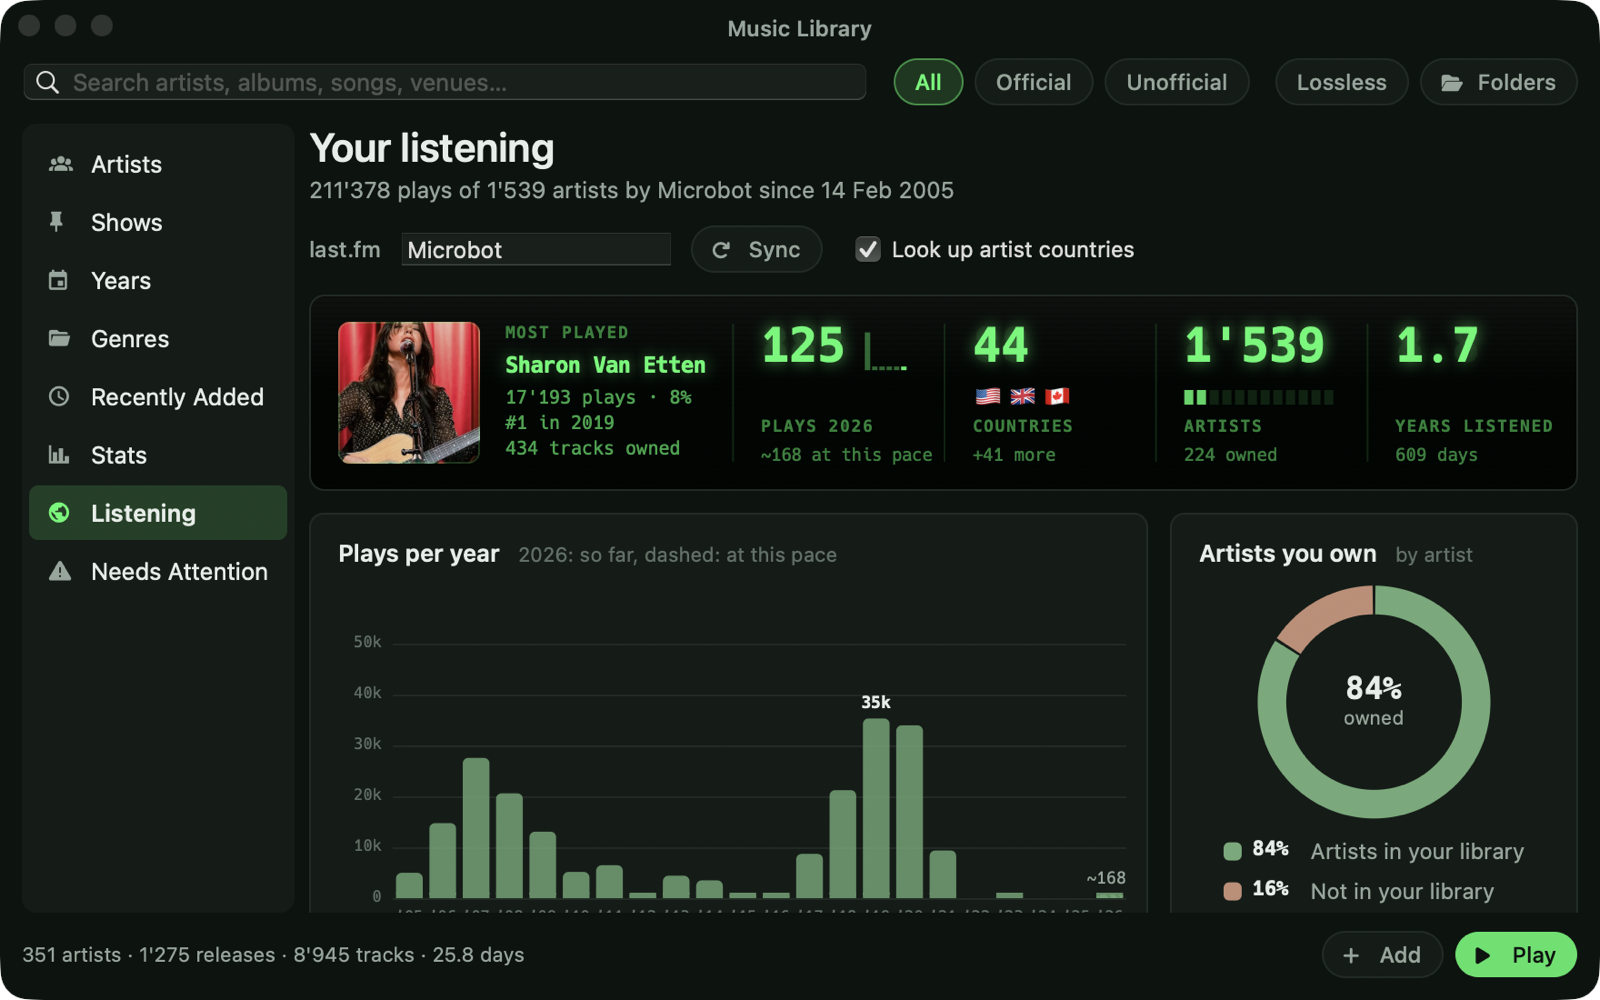
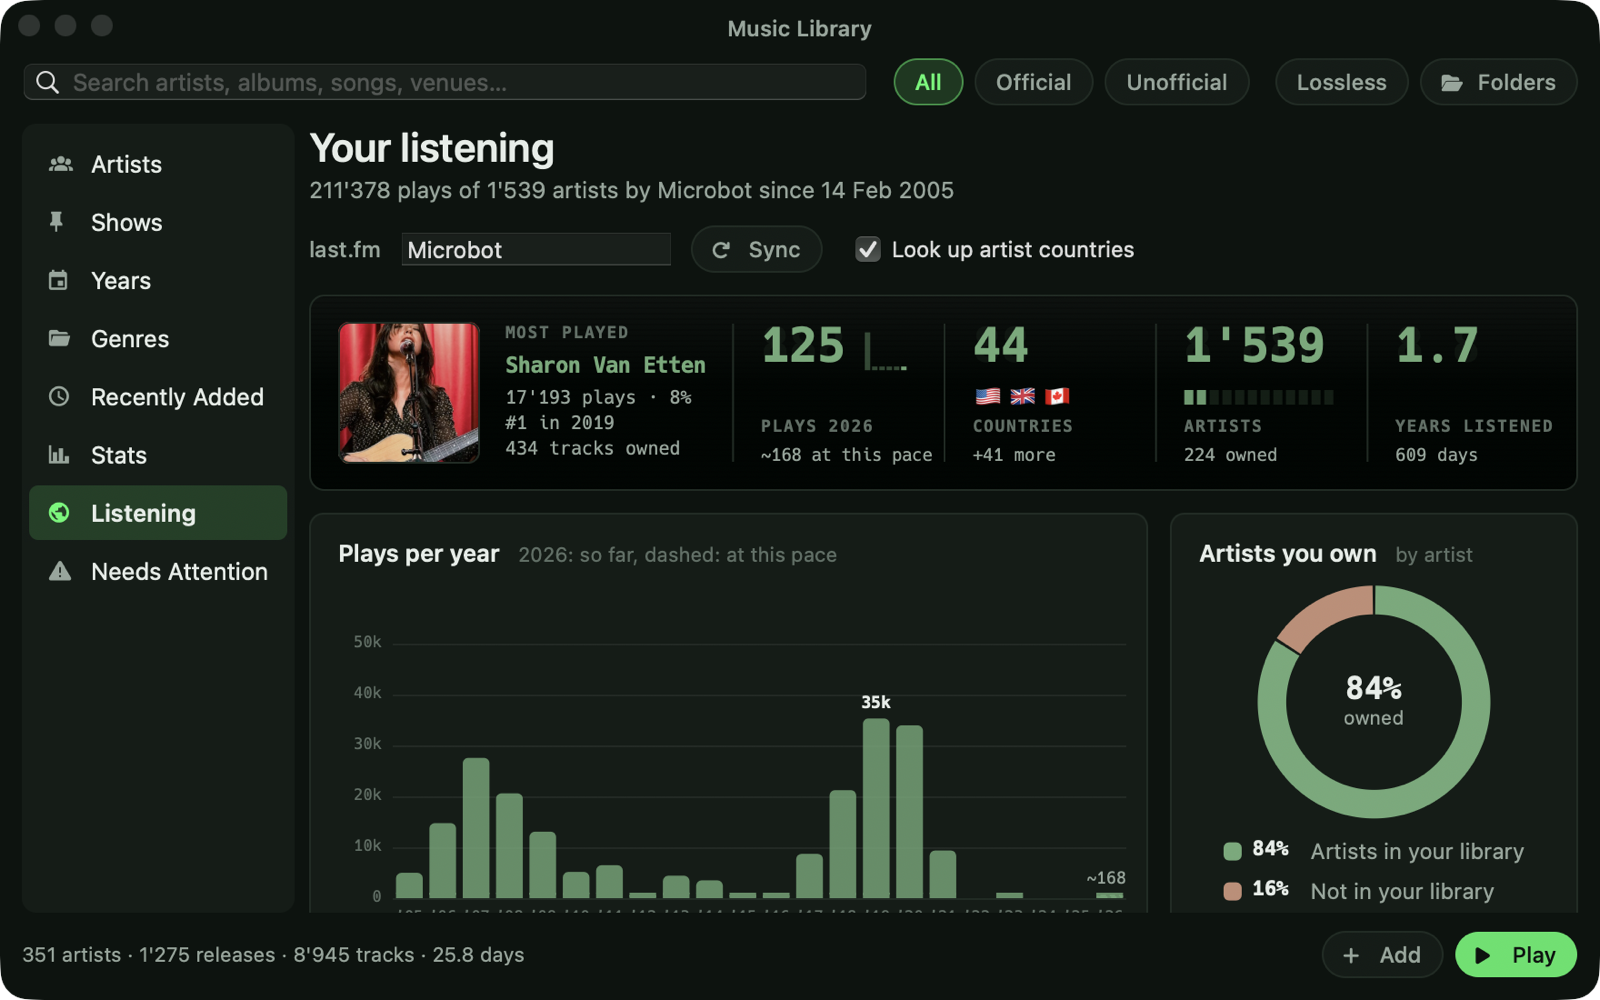
Stats and listening displays: figures, meters and bars in the chart palette's color, flat like the charts (the Phosphor palette keeps the glowing look)

diff --git a/Sources/OmniAmp/Collection/StatsViews.swift b/Sources/OmniAmp/Collection/StatsViews.swift
@@ -1061,7 +1061,7 @@ final class StatsPage: DashPage {
     }
 }
 
-/// The key figures as the front panel of hi-fi gear: one dark glass display, glowing digits over their unlit
+/// The key figures as the front panel of hi-fi gear: one dark glass display, digits in the chart color over their unlit
 /// segments, tiny caps labels, thin separators; a trend as a small level meter. Hover a figure for details.
 final class HiFiDisplay: StatsChart {
     struct Item {
@@ -1122,6 +1122,14 @@ final class HiFiDisplay: StatsChart {
         return size
     }
 
+    /// The figures in the chart palette's color, flat like the charts below; with the Phosphor palette, the
+    /// theme's lit phosphor, glowing, with its dim labels.
+    private var glowing: Bool { Theme.chart.id == "phosphor" }
+    private var ink: NSColor { Dash.amount }
+    private var inkHot: NSColor { glowing ? Theme.current : Dash.text }
+    private var labelInk: NSColor { glowing ? Theme.phosphorDim : Dash.text3 }
+    private func noteInk(_ alpha: CGFloat) -> NSColor { glowing ? Theme.phosphor.withAlphaComponent(alpha) : Dash.text2 }
+
     private var glow: NSShadow {
         let g = NSShadow()
         g.shadowColor = Theme.phosphor.withAlphaComponent(0.55)
@@ -1155,7 +1163,7 @@ final class HiFiDisplay: StatsChart {
         for (i, item) in items.enumerated() {
             let r = cell(i)
             if i > 0 || feature != nil {
-                Theme.phosphorDim.withAlphaComponent(0.25).setFill()
+                (glowing ? Theme.phosphorDim.withAlphaComponent(0.25) : Dash.border).setFill()
                 NSRect(x: r.minX, y: 16, width: 1, height: bounds.height - 32).fill()
             }
             let text = item.value
@@ -1172,12 +1180,12 @@ final class HiFiDisplay: StatsChart {
             // Unlit segments behind the digits (a real LCD shows its 8s faintly).
             if numeric {
                 let ghost = String(text.map { $0.isNumber ? "8" : $0 })
-                NSAttributedString(string: ghost, attributes: [.font: font, .foregroundColor: Theme.phosphor.withAlphaComponent(0.07)])
+                NSAttributedString(string: ghost, attributes: [.font: font, .foregroundColor: ink.withAlphaComponent(0.07)])
                     .draw(at: NSPoint(x: x, y: textTop))
             }
             NSGraphicsContext.saveGraphicsState()
-            glow.set()
-            let lit = NSAttributedString(string: text, attributes: [.font: font, .foregroundColor: hovered == i + (feature == nil ? 0 : 1) ? Theme.current : Theme.phosphor])
+            if glowing { glow.set() }
+            let lit = NSAttributedString(string: text, attributes: [.font: font, .foregroundColor: hovered == i + (feature == nil ? 0 : 1) ? inkHot : ink])
             lit.draw(with: NSRect(x: x, y: textTop, width: room, height: font.pointSize * 1.4),
                      options: [.usesLineFragmentOrigin, .truncatesLastVisibleLine])
             NSGraphicsContext.restoreGraphicsState()
@@ -1188,7 +1196,7 @@ final class HiFiDisplay: StatsChart {
                 let mx = x + w + 10, mh = size * 0.8
                 for (j, v) in bars.enumerated() {
                     let h = max(2, mh * CGFloat(v / hi))
-                    Theme.phosphor.withAlphaComponent(j == bars.count - 1 ? 0.95 : 0.4).setFill()
+                    ink.withAlphaComponent(j == bars.count - 1 ? 0.95 : 0.4).setFill()
                     NSRect(x: mx + CGFloat(j) * 4, y: top + size * 1.1 - h, width: 3, height: h).fill()
                 }
             }
@@ -1197,7 +1205,7 @@ final class HiFiDisplay: StatsChart {
             if let share = item.share {
                 let n = max(6, min(16, Int(room / 7))), lit = Int((Double(n) * share).rounded())
                 for j in 0..<n {
-                    Theme.phosphor.withAlphaComponent(j < lit ? 0.85 : 0.12).setFill()
+                    ink.withAlphaComponent(j < lit ? 0.9 : 0.15).setFill()
                     NSRect(x: x + CGFloat(j) * 7, y: vy + 3, width: 5, height: 8).fill()
                 }
             }
@@ -1206,7 +1214,7 @@ final class HiFiDisplay: StatsChart {
                     .draw(with: NSRect(x: x, y: vy - 1, width: room, height: visualH + 2), options: [.usesLineFragmentOrigin, .truncatesLastVisibleLine])
             }
             let ly = vy + visualH + 4
-            NSAttributedString(string: item.label.uppercased(), attributes: [.font: Dash.mono(9, bold: true), .foregroundColor: Theme.phosphorDim, .kern: 0.8])
+            NSAttributedString(string: item.label.uppercased(), attributes: [.font: Dash.mono(9, bold: true), .foregroundColor: labelInk, .kern: 0.8])
                 .draw(with: NSRect(x: x, y: ly, width: r.width - 22, height: 14), options: [.usesLineFragmentOrigin, .truncatesLastVisibleLine])
             // The line under the label: the change first (it has its own color), then the note.
             let n = NSMutableAttributedString()
@@ -1215,7 +1223,7 @@ final class HiFiDisplay: StatsChart {
                                                                                               .foregroundColor: d.up ? Dash.up : Dash.down]))
             }
             if let note = item.note {
-                n.append(NSAttributedString(string: (n.length > 0 ? "  " : "") + note, attributes: [.font: Dash.mono(9.5), .foregroundColor: Theme.phosphor.withAlphaComponent(0.5)]))
+                n.append(NSAttributedString(string: (n.length > 0 ? "  " : "") + note, attributes: [.font: Dash.mono(9.5), .foregroundColor: noteInk(0.5)]))
             }
             n.draw(with: NSRect(x: x, y: ly + 15, width: r.width - 22, height: 14), options: [.usesLineFragmentOrigin, .truncatesLastVisibleLine])
         }
@@ -1234,13 +1242,13 @@ final class HiFiDisplay: StatsChart {
             NSImage(cgImage: img, size: .zero).draw(in: NSRect(x: pic.midX - w / 2, y: pic.midY - h / 2, width: w, height: h),
                                                     from: .zero, operation: .sourceOver, fraction: 0.92, respectFlipped: true, hints: nil)
         } else {
-            Theme.phosphor.withAlphaComponent(0.08).setFill()
+            ink.withAlphaComponent(0.08).setFill()
             pic.fill()
-            let g = NSAttributedString(string: f.placeholder, attributes: [.font: Fonts.hack(side * 0.36), .foregroundColor: Theme.phosphorDim])
+            let g = NSAttributedString(string: f.placeholder, attributes: [.font: Fonts.hack(side * 0.36), .foregroundColor: labelInk])
             g.draw(at: NSPoint(x: pic.midX - g.size().width / 2, y: pic.midY - g.size().height / 2))
         }
         NSGraphicsContext.restoreGraphicsState()
-        Theme.phosphor.withAlphaComponent(0.2).setStroke()
+        (glowing ? Theme.phosphor.withAlphaComponent(0.2) : Dash.border).setStroke()
         NSBezierPath(roundedRect: pic.insetBy(dx: 0.5, dy: 0.5), xRadius: 6, yRadius: 6).stroke()
 
         let x = pic.maxX + 14, room = r.maxX - x - 14
@@ -1248,17 +1256,17 @@ final class HiFiDisplay: StatsChart {
         while size > 12, (f.title as NSString).size(withAttributes: [.font: Dash.mono(size, bold: true)]).width > room { size -= 1 }
         let block = 12 + 4 + size * 1.25 + 4 + CGFloat(f.lines.count) * 14
         var y = ((bounds.height - block) / 2).rounded()
-        NSAttributedString(string: f.kicker.uppercased(), attributes: [.font: Dash.mono(9, bold: true), .foregroundColor: Theme.phosphorDim, .kern: 0.8])
+        NSAttributedString(string: f.kicker.uppercased(), attributes: [.font: Dash.mono(9, bold: true), .foregroundColor: labelInk, .kern: 0.8])
             .draw(with: NSRect(x: x, y: y, width: room, height: 14), options: [.usesLineFragmentOrigin, .truncatesLastVisibleLine])
         y += 16
         NSGraphicsContext.saveGraphicsState()
-        glow.set()
-        NSAttributedString(string: f.title, attributes: [.font: Dash.mono(size, bold: true), .foregroundColor: hovered == 0 ? Theme.current : Theme.phosphor])
+        if glowing { glow.set() }
+        NSAttributedString(string: f.title, attributes: [.font: Dash.mono(size, bold: true), .foregroundColor: hovered == 0 ? inkHot : ink])
             .draw(with: NSRect(x: x, y: y, width: room, height: size * 1.4), options: [.usesLineFragmentOrigin, .truncatesLastVisibleLine])
         NSGraphicsContext.restoreGraphicsState()
         y += size * 1.25 + 4
         for line in f.lines {
-            NSAttributedString(string: line, attributes: [.font: Dash.mono(10), .foregroundColor: Theme.phosphor.withAlphaComponent(0.65)])
+            NSAttributedString(string: line, attributes: [.font: Dash.mono(10), .foregroundColor: noteInk(0.65)])
                 .draw(with: NSRect(x: x, y: y, width: room, height: 14), options: [.usesLineFragmentOrigin, .truncatesLastVisibleLine])
             y += 14
         }
